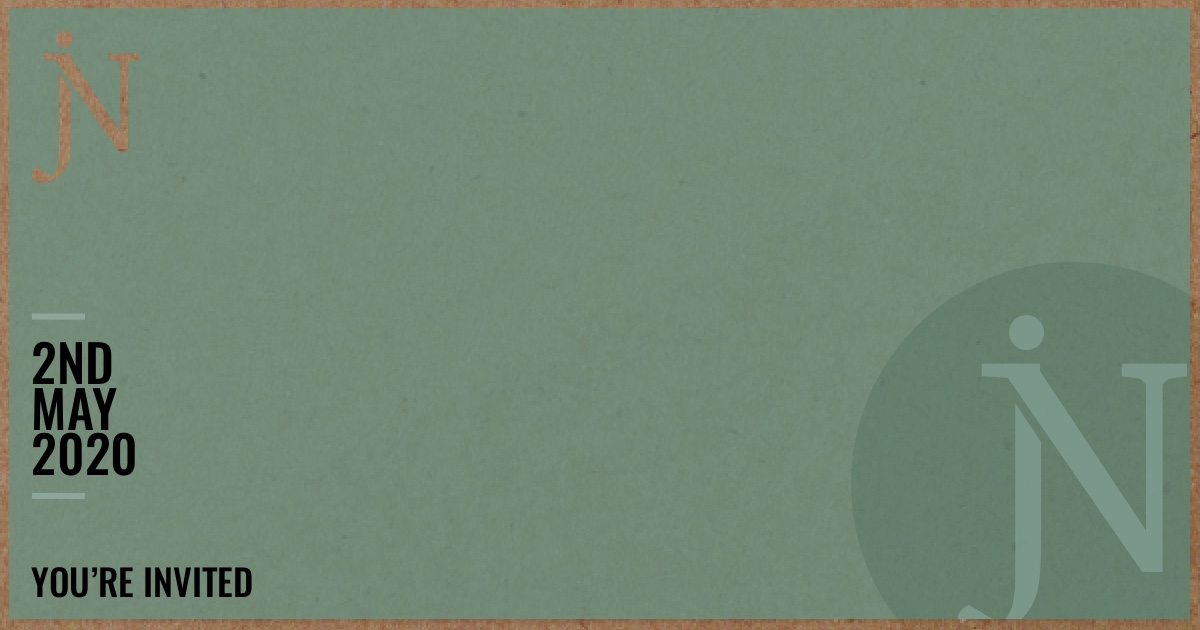
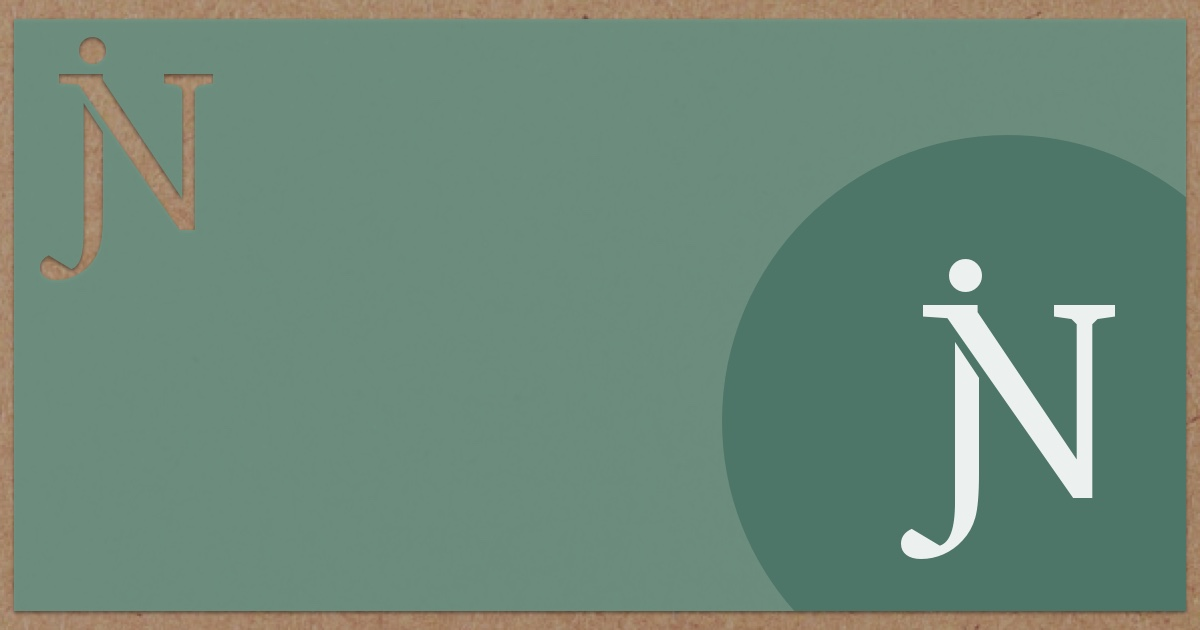
OpenGraph tags

Changed region(s): [[0.0, 0.0, 1.0, 1.0]]

diff --git a/src/updates/not-tomorrow-but-soon.md b/src/updates/not-tomorrow-but-soon.md
@@ -1,5 +1,6 @@
 ---
 title: Not tomorrow… but soon
+description: The Second of May was due to have been our wedding day. As a result of what's happening globally, our plans have had to be postponed…
 date: 2020-05-01
 author: James & Nat
 ---
